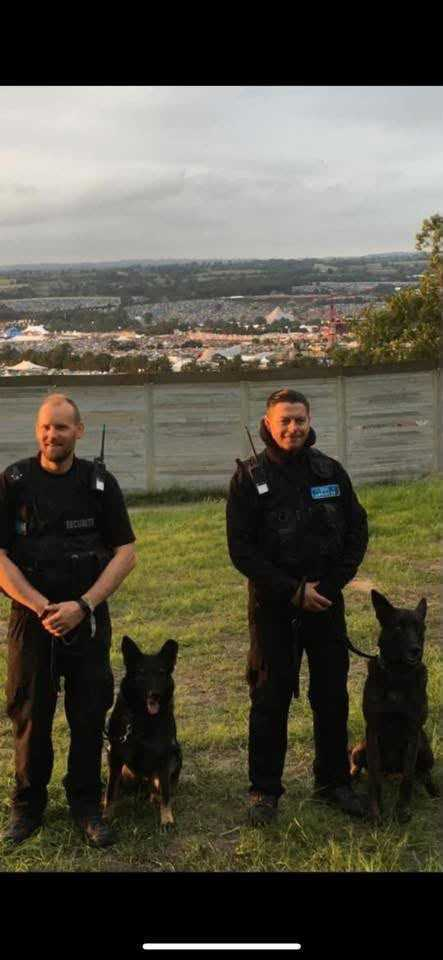
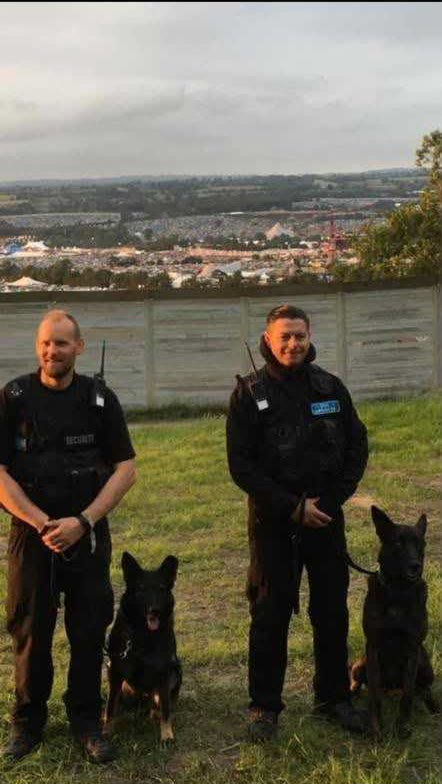
Fix mobile image cropping across the new photos
Several real photos were portrait/near-square but sat in containers
sized for landscape stock images, so object-fit:cover was cropping
out faces and subjects on phone-width cards especially:

- index.html Security Dogs card: handler's face was cropped off
  entirely; added object-position: top.
- security-training.html hero: a landscape photo (officer, dog and
  full trophy display) was squeezed into the site's portrait hero
  box, losing the dog and half the trophies; overrode the box to a
  16:9 aspect matching the photo so nothing is cropped.
- security-training.html gallery: replaced the masonry .gallery
  layout (built for landscape photos) with a new uniform, portrait-
  friendly .photo-grid, since every real photo here is portrait or
  square. Two cells were previously showing ~20% slivers of the
  source image.
- festival-deployment.jpg: the source file itself had baked-in black
  letterbox/UI bars from what was originally a video-player
  screenshot; cropped them out so the photo displays cleanly instead
  of showing black bands once more of the image became visible.
- pet-training.html teaching-kennels photo: a landscape 5-person
  lineup was cropped to ~60% width in the portrait split box, cutting
  off the people at both ends; overrode to a 4:3 box matching the
  photo.

diff --git a/security-training.html b/security-training.html
@@ -79,7 +79,7 @@
         <a class="btn btn--ghost" href="tel:+441761434591">Call 01761 434591</a>
       </div>
     </div>
-    <figure class="page-hero__media">
+    <figure class="page-hero__media" style="aspect-ratio: 16/9;">
       <img src="assets/img/security/awards-display.jpg" alt="Handler and dog with a display of competition trophies and shields outside the police station" />
     </figure>
   </div>
@@ -140,12 +140,12 @@
       <h2 class="section-head__title"><span class="numeral">II.</span> In <em>the field.</em></h2>
       <p class="section-head__copy">Handlers, teams and dogs we've trained — from festival deployments to force presentations.</p>
     </header>
-    <div class="gallery">
-      <div class="gallery__item"><img src="assets/img/security/team-training-day.jpg" alt="Security team watching a dog worked on a training day at Woodborough" loading="lazy" /></div>
-      <div class="gallery__item"><img src="assets/img/security/handler-security-vest.jpg" alt="Security handler with a working dog" loading="lazy" /></div>
-      <div class="gallery__item"><img src="assets/img/security/o2-academy-event-security.jpg" alt="Event security handler with a working dog on duty" loading="lazy" /></div>
-      <div class="gallery__item"><img src="assets/img/security/festival-deployment.jpg" alt="Two security handlers with dogs overlooking a festival site" loading="lazy" /></div>
-      <div class="gallery__item"><img src="assets/img/security/pd-comet.jpg" alt="PD Comet, a dog trained at Woodborough, now an operational Police Dog" loading="lazy" /></div>
+    <div class="photo-grid">
+      <div class="photo-grid__item"><img src="assets/img/security/team-training-day.jpg" alt="Security team watching a dog worked on a training day at Woodborough" loading="lazy" /></div>
+      <div class="photo-grid__item"><img src="assets/img/security/handler-security-vest.jpg" alt="Security handler with a working dog" loading="lazy" style="object-position: center top;" /></div>
+      <div class="photo-grid__item"><img src="assets/img/security/o2-academy-event-security.jpg" alt="Event security handler with a working dog on duty" loading="lazy" /></div>
+      <div class="photo-grid__item"><img src="assets/img/security/festival-deployment.jpg" alt="Two security handlers with dogs overlooking a festival site" loading="lazy" style="object-position: center top;" /></div>
+      <div class="photo-grid__item"><img src="assets/img/security/pd-comet.jpg" alt="PD Comet, a dog trained at Woodborough, now an operational Police Dog" loading="lazy" /></div>
     </div>
   </div>
 </section>

diff --git a/assets/css/styles.css b/assets/css/styles.css
@@ -1046,6 +1046,25 @@ p + p { margin-top: 1em; }
   .gallery__item { grid-column: span 1 !important; grid-row: span 1 !important; }
 }
 
+/* ---------- photo grid (uniform, portrait-friendly) ---------- */
+.photo-grid {
+  display: grid;
+  grid-template-columns: repeat(3, 1fr);
+  gap: 1rem;
+}
+.photo-grid__item {
+  aspect-ratio: 4/5;
+  border-radius: var(--rad-md);
+  overflow: hidden;
+}
+.photo-grid__item img {
+  width: 100%; height: 100%; object-fit: cover;
+  transition: transform 0.6s ease;
+}
+.photo-grid__item:hover img { transform: scale(1.03); }
+@media (max-width: 900px) { .photo-grid { grid-template-columns: repeat(2, 1fr); } }
+@media (max-width: 520px) { .photo-grid { grid-template-columns: 1fr; } }
+
 /* ---------- staff grid ---------- */
 .staff-grid {
   display: grid;

diff --git a/index.html b/index.html
@@ -213,7 +213,7 @@
       </article>
 
       <article class="service-card span-4">
-        <div class="service-card__media"><img src="assets/img/security/handler-security-vest.jpg" alt="Security handler with a working dog" loading="lazy" /></div>
+        <div class="service-card__media"><img src="assets/img/security/handler-security-vest.jpg" alt="Security handler with a working dog" loading="lazy" style="object-position: center top;" /></div>
         <div class="service-card__inner">
           <span class="service-card__num">— 05</span>
           <h3 class="service-card__title">Security Dogs</h3>

diff --git a/pet-training.html b/pet-training.html
@@ -147,7 +147,7 @@
         <li><span class="num">·</span><div><strong>A teaching kennels</strong><p>We're a teaching kennels for Level 3 Animal Management students and veterinary student instructors, so you're learning alongside people who are training&nbsp;too.</p></div></li>
       </ul>
     </div>
-    <figure class="split__media">
+    <figure class="split__media" style="aspect-ratio: 4/3;">
       <img src="assets/img/training/l3-students-puppies.jpg" alt="Level 3 Animal Management students each holding a puppy at Woodborough" />
     </figure>
   </div>
